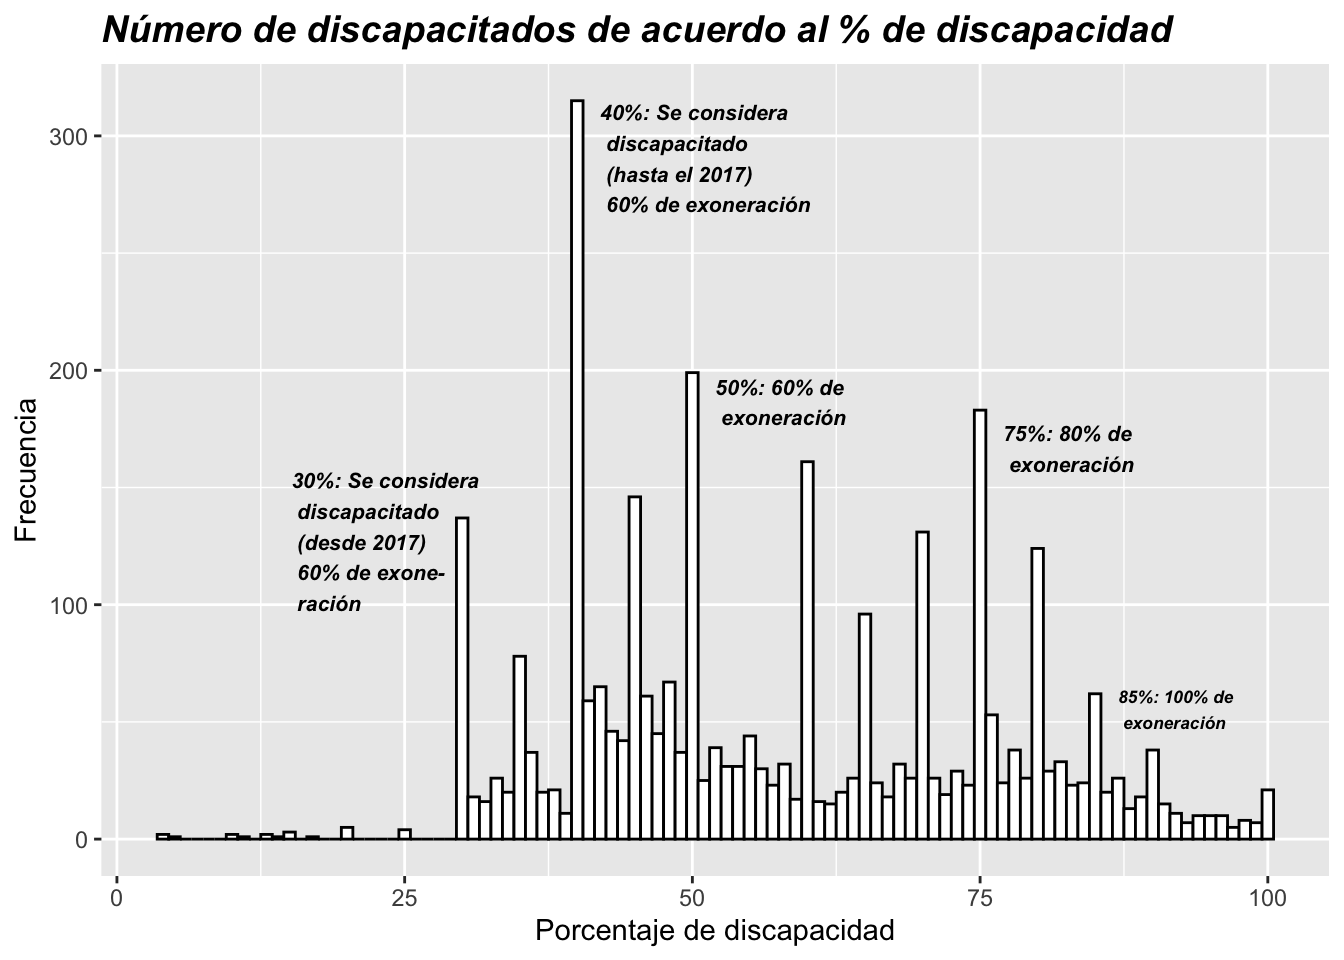
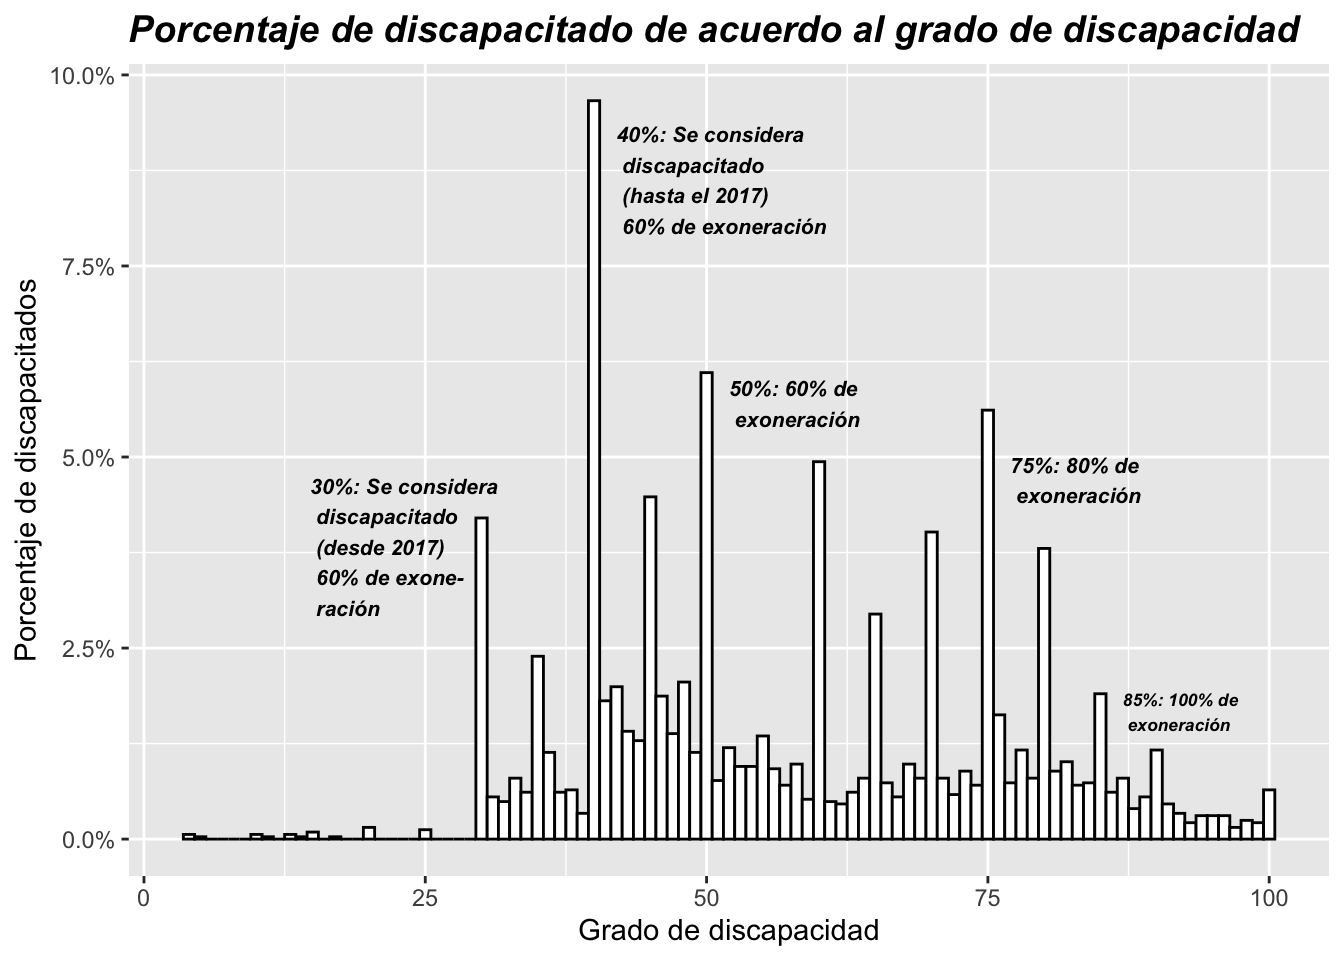
update

diff --git a/content/post/corrupcion/2020-07-19-irregularidades-carnes-de-discapacidad.html b/content/post/corrupcion/2020-07-19-irregularidades-carnes-de-discapacidad.html
@@ -23,7 +23,7 @@ images:
 <p>Me encontraba revisando las estadísticas en cuanto a discapacitados de la última Encuesta Nacional de Salud y Nutrición 2018 del INEC, “quantificando” uno que otro modelo, hasta que empecé a notar cosas raras, específicamente en los porcentajes de discapacidad. Es una práctica común en estadística ilustrar la dispersión de los datos a fin de verificar errores, valores atípicos (aquellos que se alejan bastante del promedio), entre otras cosas.</p>
 <p>Una de las herramientas que más utilizamos son los <strong>histogramas</strong>. Para observar la distribución de porcentajes de discapacidad a través de un histograma, simplemente contamos el número de observaciones para cada porcentaje; es decir, cuántas personas tienen 40% de discapacidad, cuantas tienen 41%, cuántas 42% y así sucesivamente para luego dibujarlas en un gráfico.</p>
 <p>Yo esperaba que la distribución del porcentaje de discapacidad sea “más o menos” uniforme, poco a poco disminuyendo a medida que aumentaba el porcentaje, dado que son menos <a href="https://www.cdc.gov/ncbddd/disabilityandhealth/features/key-findings-community-prevalence.html">comunes</a> las personas con un muy alto grado de discapacidad (gente completamente dependiente y si ninguna autosuficiencia). En fin, no fue tanto así lo que encontré.</p>
-<p>Inicialmente usé la programación por defecto de mi programa estadístico y obtuve el primer gráfico. Para no dibujar tantas barras, mi programa agrupó los porcentajes y dibujó solamente treinta barras. Desde ahí, ya me di cuenta que no tenía la forma que yo esperaba ver. Sin embargo, quise ir más allá y pedirle a mi programa que dibuje una barrita para cada porcentaje; es decir, cien barritas. El resultado fue el segundo gráfico.</p>
+<p>En el eje vertical del histograma se muestra el porcentaje de discapacitados (con carné) dependiendo al grado de discapacidad. En el eje horizontal están los porcentajes de discapacidad.</p>
 <p><img src="/post/corrupcion/2020-07-19-irregularidades-carnes-de-discapacidad_files/figure-html/unnamed-chunk-2-1.png" width="90%" style="display: block; margin: auto;" /></p>
 <p style="line-height:80%">
 <font size="1"><i>Cabe mencionar que en esta encuesta se entrevistaron aleatoriamente a 3260 discapacitados en todo el país, así que podemos decir que estamos representando en cierto grado el contexto nacional.</i></font>
@@ -32,10 +32,10 @@ images:
 <h3>¿Hay irregularidades en los porcentajes de discapacidad? ¿Qué muestra el gráfico?</h3>
 <p>Si todavía no notas nada extraño, te doy una pista. ¿No notas ciertos “picos” en el gráfico, especialmente en el 40%? Al parecer muchos discapacitados tienen exactamente 40% de discapacidad. ¿Por qué será? Yo pensaba que a los doctores que valoran el porcentaje de discapacidad les gustaban los números múltiplos de 10 o de 5 (no hay nada de malo en eso, a mí también me gustan). Sin embargo, luego de revisar la Ley Orgánica de Discapacidades pude descubrir que tal vez hay algo más. De acuerdo a esta <a href="file:///Users/elocarinista/Downloads/REGLAMENTO%20A%20LA%20LEY%20ORG%C3%81NICA%20DE%20DISCAPACIDADES.pdf">ley</a>, se consideraba hasta hace un par de años como discapacitado a cualquier persona con un porcentaje de 40 o superior. Ser considerado como discapacitado te otorga un abanico de beneficios, incluyendo beneficios tributarios que aumentan a medida que también aumenta tu porcentaje. En otras palabras, a ti no te servía tener un 39% de discapacidad si de todos modos no eras considerado discapacitado. A ti te convenía tener un 40% o más.</p>
 <p>Hace un par de años se hizo una <a href="https://www.gob.ec/sites/default/files/regulations/2018-09/Documento_Reglamento-Ley-Organica-Discapacidades.pdf">reforma</a> a esta ley para incluir como discapacitados a todas las personas con un porcentaje a partir del 30%. De ahí también que en el gráfico no veamos a nadie con un porcentaje del 29%. ¿Quién quiere eso?</p>
-<p>En teoría, a quién valora la discapacidad del individuo no debería importarle lo que le a este le conviene, ¿o no? Si te tocó 39% ese fue. Sin embargo, según la encuesta hay tan pocas personas con 39% de discapacidad que casi ni se ven en el gráfico, mientras que con 40% hay muchos. Pero ahí no se acaba. Como dije antes, mientas mayor es tu porcentaje de discapacidad mayores son los beneficios. Tal vez logramos observar patrones iguales. Veamos si es así o no. He graficado el mismo histograma, pero esta vez he añadido unas leyendas para visualizarlo mejor.</p>
+<p>En teoría, a quien valora la discapacidad del individuo no debería importarle lo que le a este le conviene, ¿o no? Si te tocó 39% ese fue. Sin embargo, según la encuesta hay tan pocas personas con 39% de discapacidad que casi ni se ven en el gráfico, mientras que con 40% hay muchos. Pero ahí no se acaba. Como dije antes, mientas mayor es tu porcentaje de discapacidad mayores son los beneficios. Tal vez logramos observar patrones iguales. Veamos si es así o no. He graficado el mismo histograma, pero esta vez he añadido unas leyendas para visualizarlo mejor.</p>
 <p><img src="/post/corrupcion/2020-07-19-irregularidades-carnes-de-discapacidad_files/figure-html/unnamed-chunk-3-1.png" width="90%" style="display: block; margin: auto;" /></p>
-<p>¿Ya te convenciste que hay algo extraño en la valoración del porcentaje de discapacidad? Ahí se ve que los “picos” más altos coinciden con los porcentajes que otorgan más beneficios tributarios. Claro, mi teoría tampoco explica todos los picos. Aquí podríamos volver al argumento de que los múltiplos de 10 son más atractivos. Sin embargo, hay algo más interesante que cabe mencionar. Si bien el número de discapacitados con un porcentaje ligeramente inferior a 50% son muy pocos, también lo son los que tienen un porcentaje de 51% o 52%. Hacer una valoración médica toma tiempo, más aún si eres médico y estás muy atareado. Si ya puedes acceder al beneficio que deseas, qué importa si realmente tienes un porcentaje de discapacidad del 53%, simplemente te dejo en 50% y me evito el esfuerzo.</p>
-<p>En ningún momento quise desprestigiar la labora ética de los servidores de salud encargados de valorar y asignar el porcentaje de discapacitados. Simplemente cogí los datos y vi que las cosas “no cuadraban”. El trabajo es ahora de usted, lector o lectora, de sacar sus propias conclusiones.</p>
+<p>¿Ya te convenciste que hay algo extraño en la valoración del porcentaje de discapacidad? Ahí se ve que los “picos” más altos coinciden con los porcentajes que otorgan más beneficios tributarios. Claro, mi teoría tampoco explica todos los picos. Aquí podríamos volver al argumento de que los múltiplos de 10 son más atractivos. Sin embargo, hay algo más interesante que cabe mencionar. Si bien el número de discapacitados con un porcentaje ligeramente inferior a 50% son muy pocos, también lo son los que tienen un porcentaje de 51% o 52%. ¿Se están inventando los médicos el grado de discapacidad? Según el gráfico, sin importar el grado de discapacidad (mayor o menor), los que valoran el porcentaje están en su mayoría asignando los porcentajes mínimos para que aquellos discapacitados accedan a ciertos beneficios.</p>
+<p>El trabajo es ahora de usted, lector o lectora, de sacar sus propias conclusiones.</p>
 <p><strong>Un par de aclaraciones:</strong></p>
 <ol style="list-style-type: decimal">
 <li><p>Algún momento pensé que la forma de asignar el porcentaje de discapacidad favorecía ciertos números. Entonces, revisé el <a href="https://www.salud.gob.ec/wp-content/uploads/downloads/2018/12/Manual_Calificaci%C3%B3n-de_Discapacidad_2018.pdf">Manual de Calificación de Discapacidad</a> emitido por el Ministerio de Salud Pública y me vi que utiliza un método muy riguroso y objetivo, por lo que alguien tendría que tener una combinación muy particular de condiciones para tener exactamente 40%. Por lo tanto, obtener dicho porcentaje de acuerdo al método descrito en el manual es muy poco probable.</p></li>
